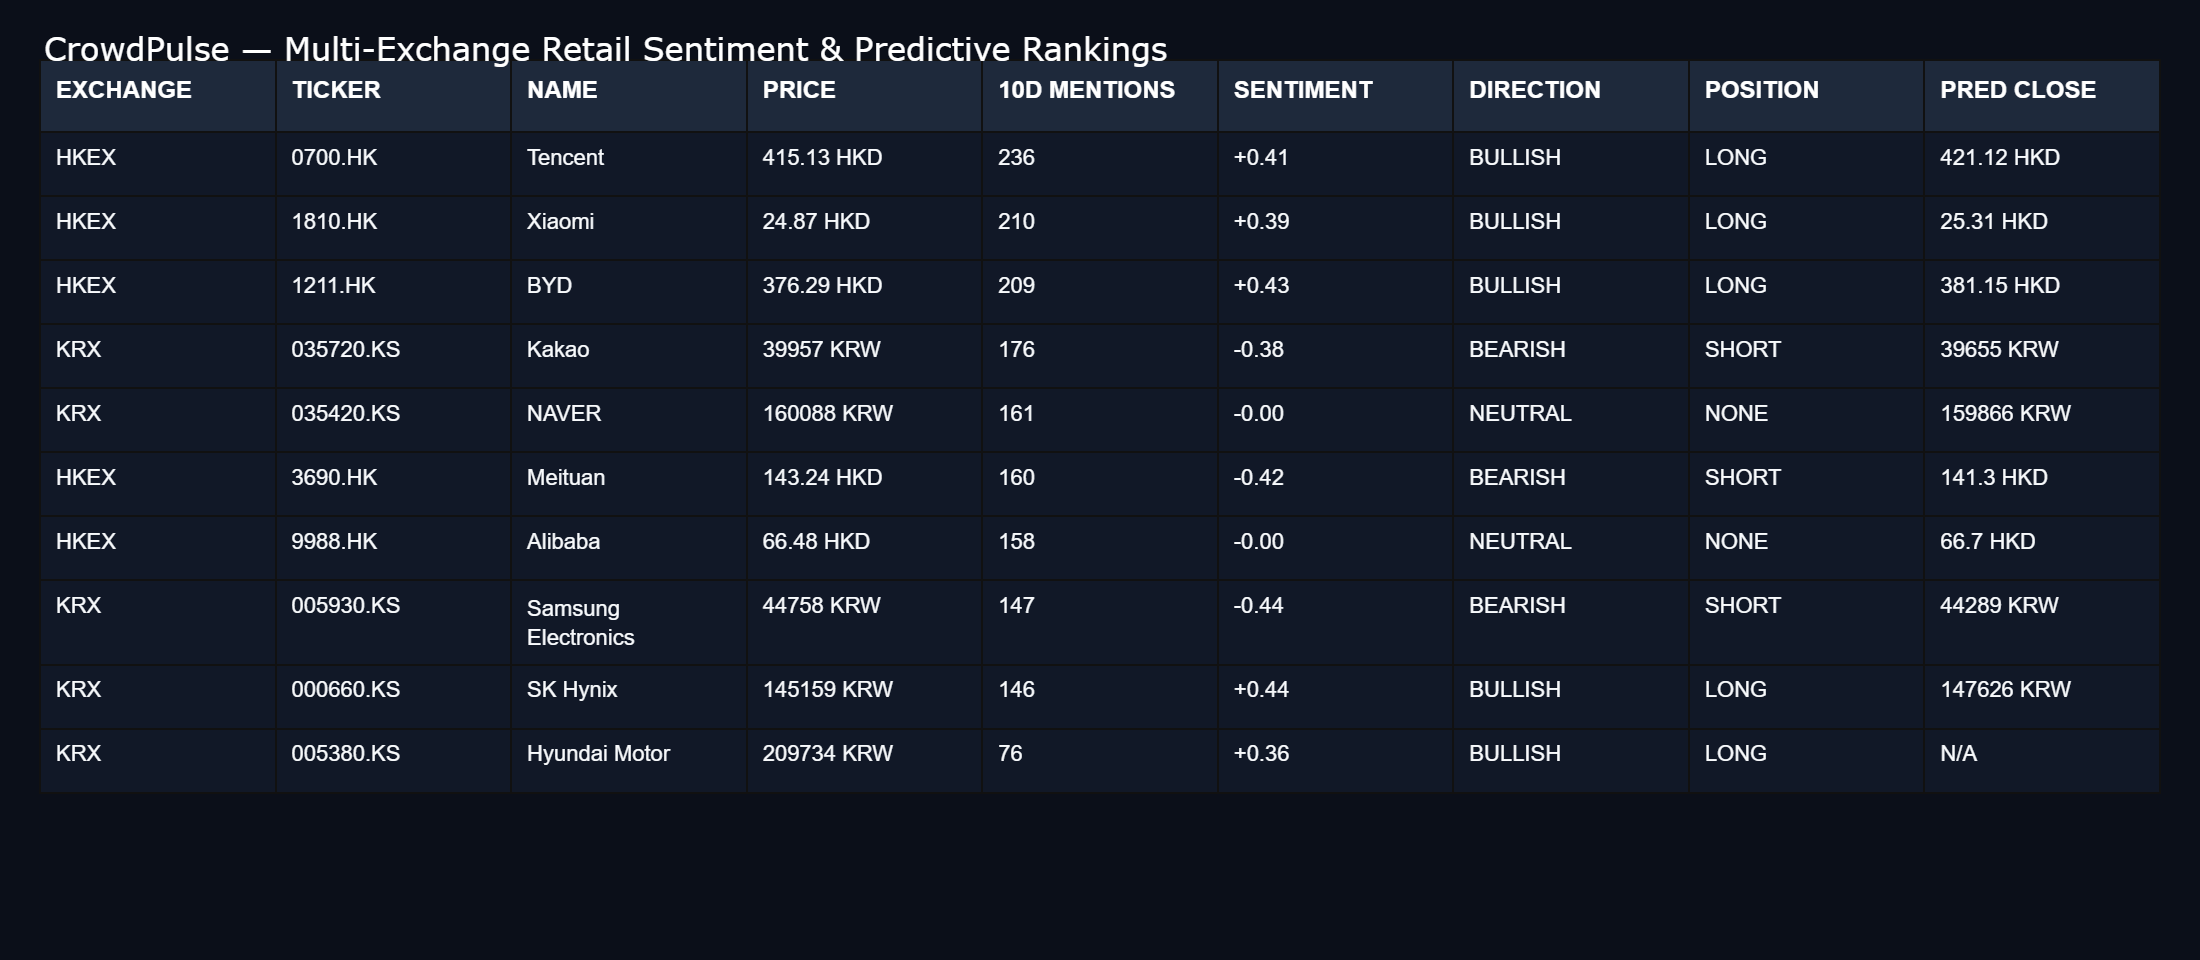
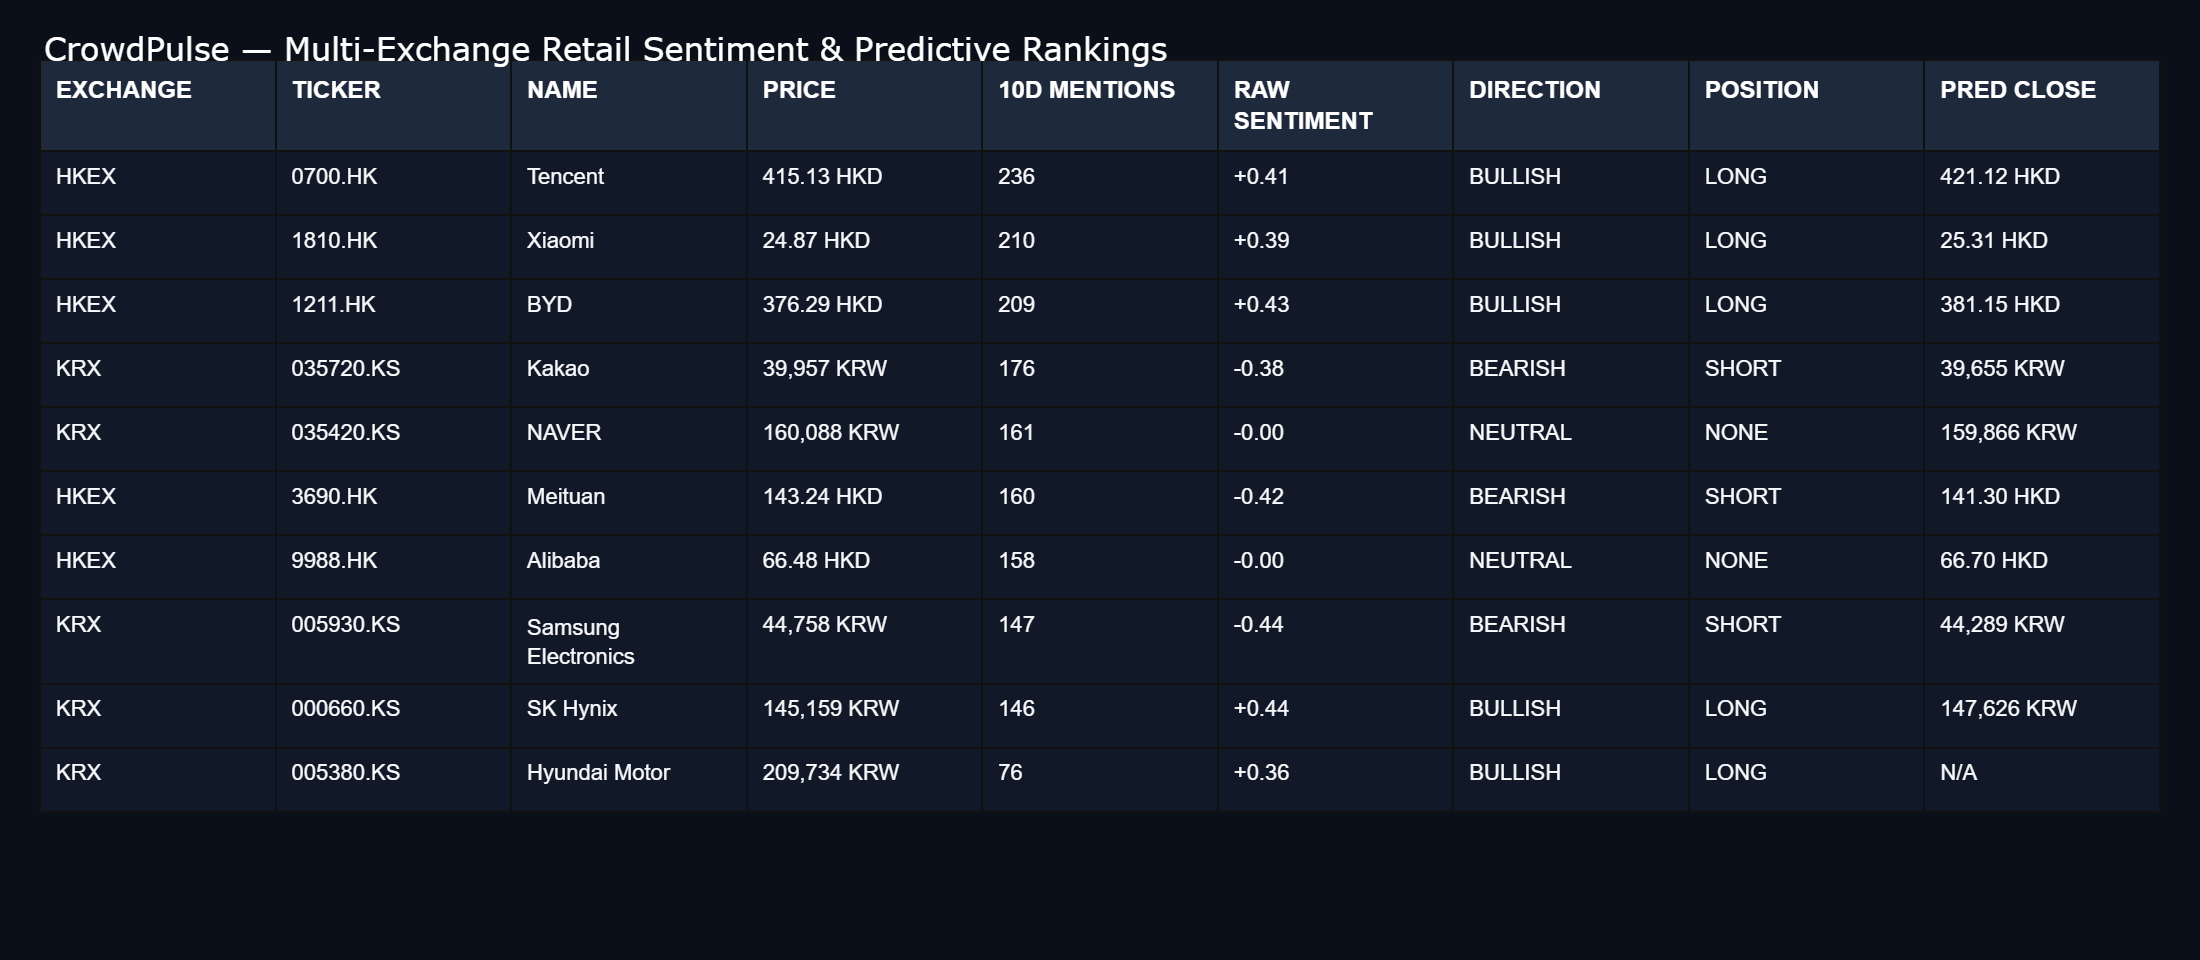
fix(report): format KRW prices as integers, label raw sentiment column, and polish whisker tooltips

diff --git a/report/templates/base.html b/report/templates/base.html
@@ -569,7 +569,7 @@
               <th>Ticker / Name</th>
               <th>Current Price</th>
               <th>10d Mentions</th>
-              <th>Social Sentiment</th>
+              <th>Raw Sentiment Score</th>
               <th>Direction</th>
               <th>Confidence</th>
               <th>Position</th>
@@ -715,7 +715,7 @@
                 <div class="feed-item-header">
                   <span class="badge" style="background: rgba(59, 130, 246, 0.2); color: #60a5fa;">{{ post.source | upper }}</span>
                   <span class="num-cell" style="color: {% if post.sentiment_score is not none and post.sentiment_score > 0.15 %}var(--bullish){% elif post.sentiment_score is not none and post.sentiment_score < -0.15 %}var(--bearish){% else %}var(--neutral){% endif %};">
-                    Score: {% if post.sentiment_score is not none %}{{ post.sentiment_score }}{% else %}—{% endif %}
+                    Raw Score: {% if post.sentiment_score is not none %}{{ post.sentiment_score }}{% else %}—{% endif %}
                   </span>
                 </div>
                 <p><a href="{{ post.url }}" target="_blank">{{ post.text }}</a></p>
@@ -735,7 +735,7 @@
                 <div class="feed-item-header">
                   <span style="color: var(--text-muted); font-size: 0.72rem;">NEWS SOURCE</span>
                   <span class="num-cell" style="color: {% if news.sentiment_score is not none and news.sentiment_score > 0.15 %}var(--bullish){% elif news.sentiment_score is not none and news.sentiment_score < -0.15 %}var(--bearish){% else %}var(--neutral){% endif %};">
-                    Score: {% if news.sentiment_score is not none %}{{ news.sentiment_score }}{% else %}—{% endif %}
+                    Raw Score: {% if news.sentiment_score is not none %}{{ news.sentiment_score }}{% else %}—{% endif %}
                   </span>
                 </div>
                 <p><a href="{{ news.url }}" target="_blank">{{ news.title }}</a></p>
@@ -780,7 +780,7 @@
               <th>Ticker / Name</th>
               <th>Current Price</th>
               <th>10d Mentions</th>
-              <th>Social Sentiment</th>
+              <th>Raw Sentiment Score</th>
               <th>Direction</th>
               <th>Confidence</th>
               <th>Position</th>
@@ -926,7 +926,7 @@
                 <div class="feed-item-header">
                   <span class="badge" style="background: rgba(59, 130, 246, 0.2); color: #60a5fa;">{{ post.source | upper }}</span>
                   <span class="num-cell" style="color: {% if post.sentiment_score is not none and post.sentiment_score > 0.15 %}var(--bullish){% elif post.sentiment_score is not none and post.sentiment_score < -0.15 %}var(--bearish){% else %}var(--neutral){% endif %};">
-                    Score: {% if post.sentiment_score is not none %}{{ post.sentiment_score }}{% else %}—{% endif %}
+                    Raw Score: {% if post.sentiment_score is not none %}{{ post.sentiment_score }}{% else %}—{% endif %}
                   </span>
                 </div>
                 <p><a href="{{ post.url }}" target="_blank">{{ post.text }}</a></p>
@@ -946,7 +946,7 @@
                 <div class="feed-item-header">
                   <span style="color: var(--text-muted); font-size: 0.72rem;">NEWS SOURCE</span>
                   <span class="num-cell" style="color: {% if news.sentiment_score is not none and news.sentiment_score > 0.15 %}var(--bullish){% elif news.sentiment_score is not none and news.sentiment_score < -0.15 %}var(--bearish){% else %}var(--neutral){% endif %};">
-                    Score: {% if news.sentiment_score is not none %}{{ news.sentiment_score }}{% else %}—{% endif %}
+                    Raw Score: {% if news.sentiment_score is not none %}{{ news.sentiment_score }}{% else %}—{% endif %}
                   </span>
                 </div>
                 <p><a href="{{ news.url }}" target="_blank">{{ news.title }}</a></p>

diff --git a/report/charts.py b/report/charts.py
@@ -224,6 +224,14 @@ def build_candlestick_chart(ticker: str, prices: list[dict[str, Any]], summary: 
 
         target_text = f"Target: {pred_close:,.2f}" if currency == "HKD" else f"Target: {int(round(pred_close)):,}"
 
+        pred_fmt = f"{pred_close:,.2f}" if currency == "HKD" else f"{int(round(pred_close)):,}"
+        if has_range:
+            low_fmt = f"{float(p_low):,.2f}" if currency == "HKD" else f"{int(round(float(p_low))):,}"
+            high_fmt = f"{float(p_high):,.2f}" if currency == "HKD" else f"{int(round(float(p_high))):,}"
+            range_str = f"Range: {low_fmt} - {high_fmt} {currency}<br>"
+        else:
+            range_str = ""
+
         scatter_kwargs: dict[str, Any] = dict(
             x=[target_dt],
             y=[pred_close],
@@ -234,8 +242,8 @@ def build_candlestick_chart(ticker: str, prices: list[dict[str, Any]], summary: 
             textfont=dict(color="#fde047", size=10, family="ui-monospace"),
             marker=dict(symbol="star", size=12, color="#fde047", line=dict(color="#000", width=1)),
             hovertemplate=(
-                f"<b>Predicted Close (n+1)</b>: {pred_close} {currency}<br>"
-                + (f"Range: {p_low} - {p_high} {currency}<br>" if has_range else "")
+                f"<b>Predicted Close (n+1)</b>: {pred_fmt} {currency}<br>"
+                + range_str
                 + "<extra></extra>"
             ),
         )
@@ -466,6 +474,20 @@ def build_predictions_chart(pred_log_rows: list[dict[str, Any]]) -> str:
     return fig.to_html(include_plotlyjs=False, full_html=False)
 
 
+def _format_cell_price(val: Any, currency: str) -> str:
+    if val is None or val == "":
+        return "N/A"
+    try:
+        f_val = float(val)
+        if currency == "HKD":
+            return f"{f_val:,.2f} {currency}"
+        elif currency == "KRW":
+            return f"{int(round(f_val)):,} {currency}"
+        return f"{f_val:,.2f} {currency}"
+    except (ValueError, TypeError):
+        return f"{val} {currency}"
+
+
 def export_leaderboard_image(summaries: list[dict[str, Any]], output_path: Path) -> None:
     """Exports a clean high-resolution leaderboard image as leaderboard.png using Kaleido."""
     # Build a clean summary table
@@ -474,12 +496,7 @@ def export_leaderboard_image(summaries: list[dict[str, Any]], output_path: Path)
     tickers = [s.get("ticker", "") for s in sorted_s]
     names = [s.get("name", "") for s in sorted_s]
     exchanges = [s.get("exchange", "") for s in sorted_s]
-    prices = [
-        f"{s['current_price']} {s.get('currency', '')}"
-        if s.get("current_price") is not None
-        else "N/A"
-        for s in sorted_s
-    ]
+    prices = [_format_cell_price(s.get("current_price"), s.get("currency", "")) for s in sorted_s]
     mentions = [str(s.get("mentions_10d", 0)) for s in sorted_s]
     sentiments = [
         f"{s['sentiment_score']:+.2f}"
@@ -493,9 +510,7 @@ def export_leaderboard_image(summaries: list[dict[str, Any]], output_path: Path)
         for s in sorted_s
     ]
     preds = [
-        f"{s['prediction']['predicted_close']} {s.get('currency', '')}"
-        if (s.get("prediction") and s["prediction"].get("predicted_close") is not None)
-        else "N/A"
+        _format_cell_price((s.get("prediction") or {}).get("predicted_close"), s.get("currency", ""))
         for s in sorted_s
     ]
 
@@ -509,7 +524,7 @@ def export_leaderboard_image(summaries: list[dict[str, Any]], output_path: Path)
                         "<b>NAME</b>",
                         "<b>PRICE</b>",
                         "<b>10D MENTIONS</b>",
-                        "<b>SENTIMENT</b>",
+                        "<b>RAW SENTIMENT</b>",
                         "<b>DIRECTION</b>",
                         "<b>POSITION</b>",
                         "<b>PRED CLOSE</b>",
